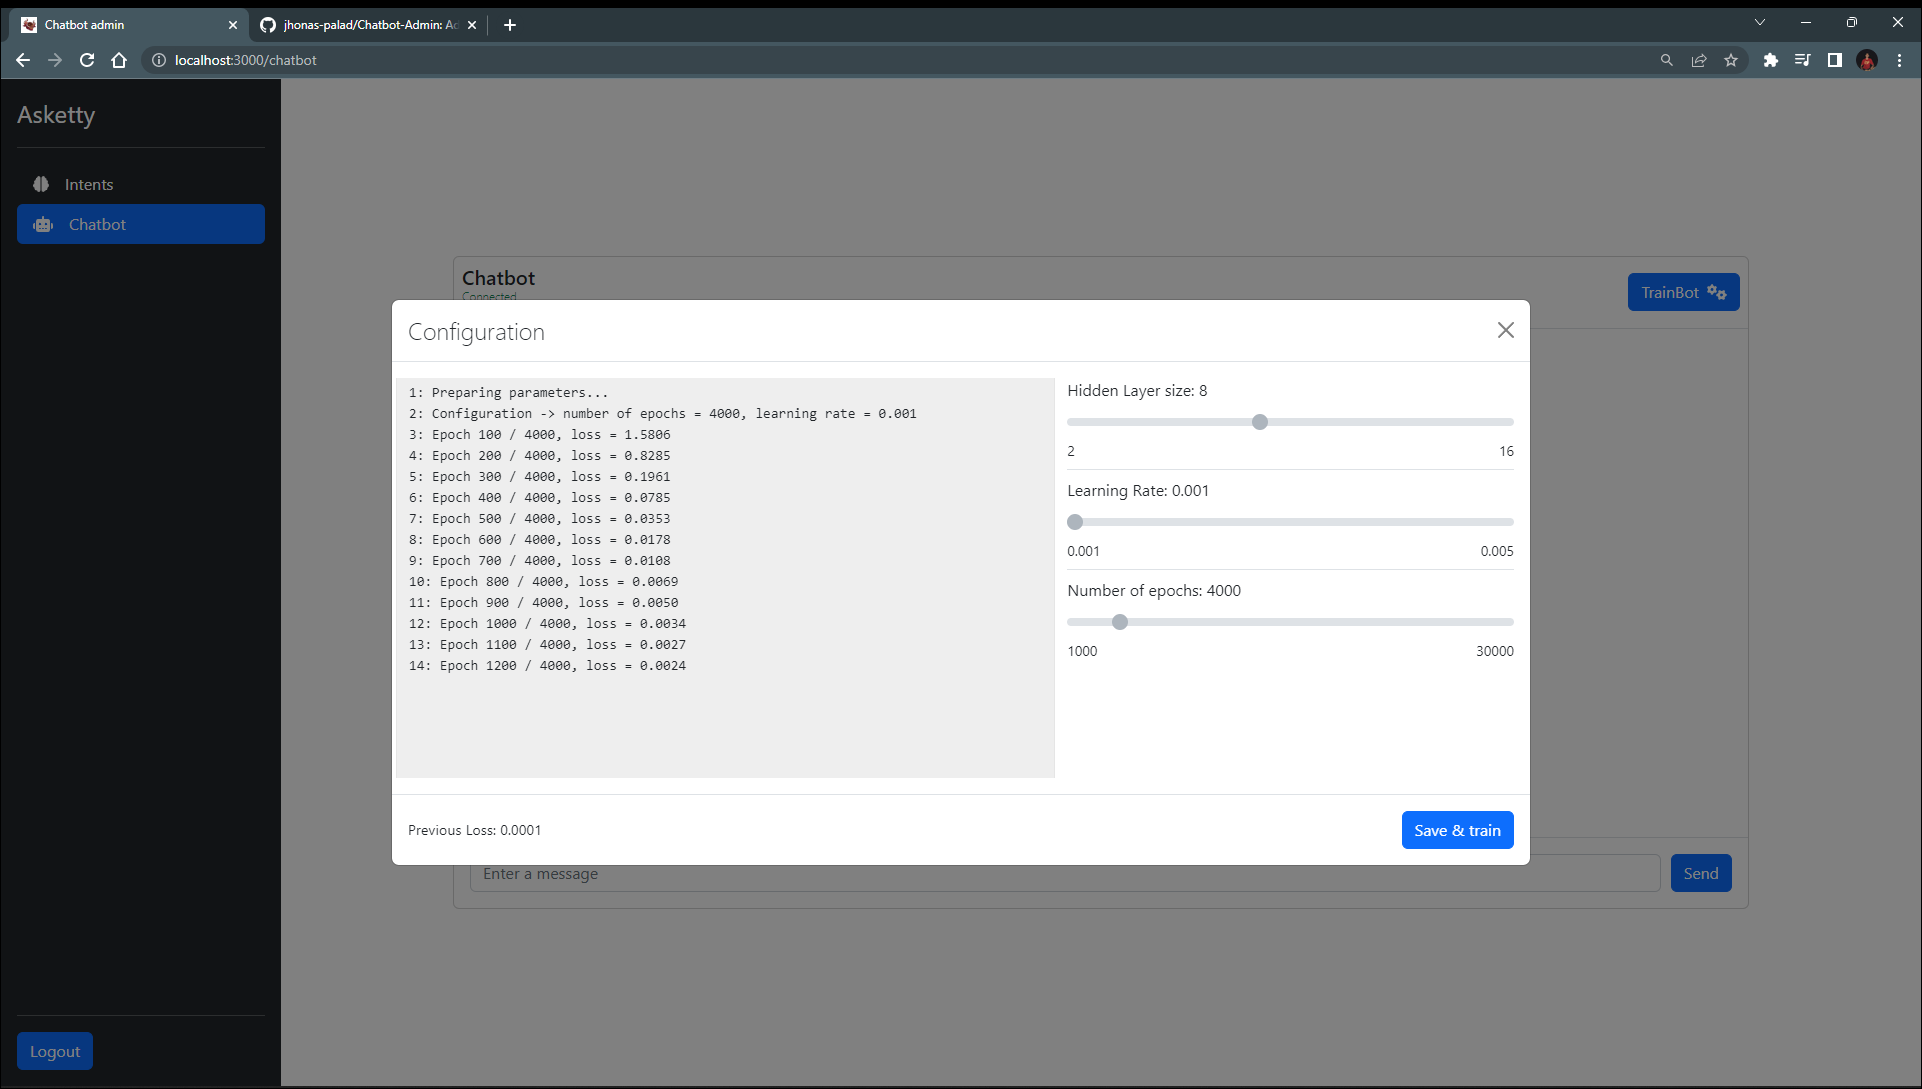
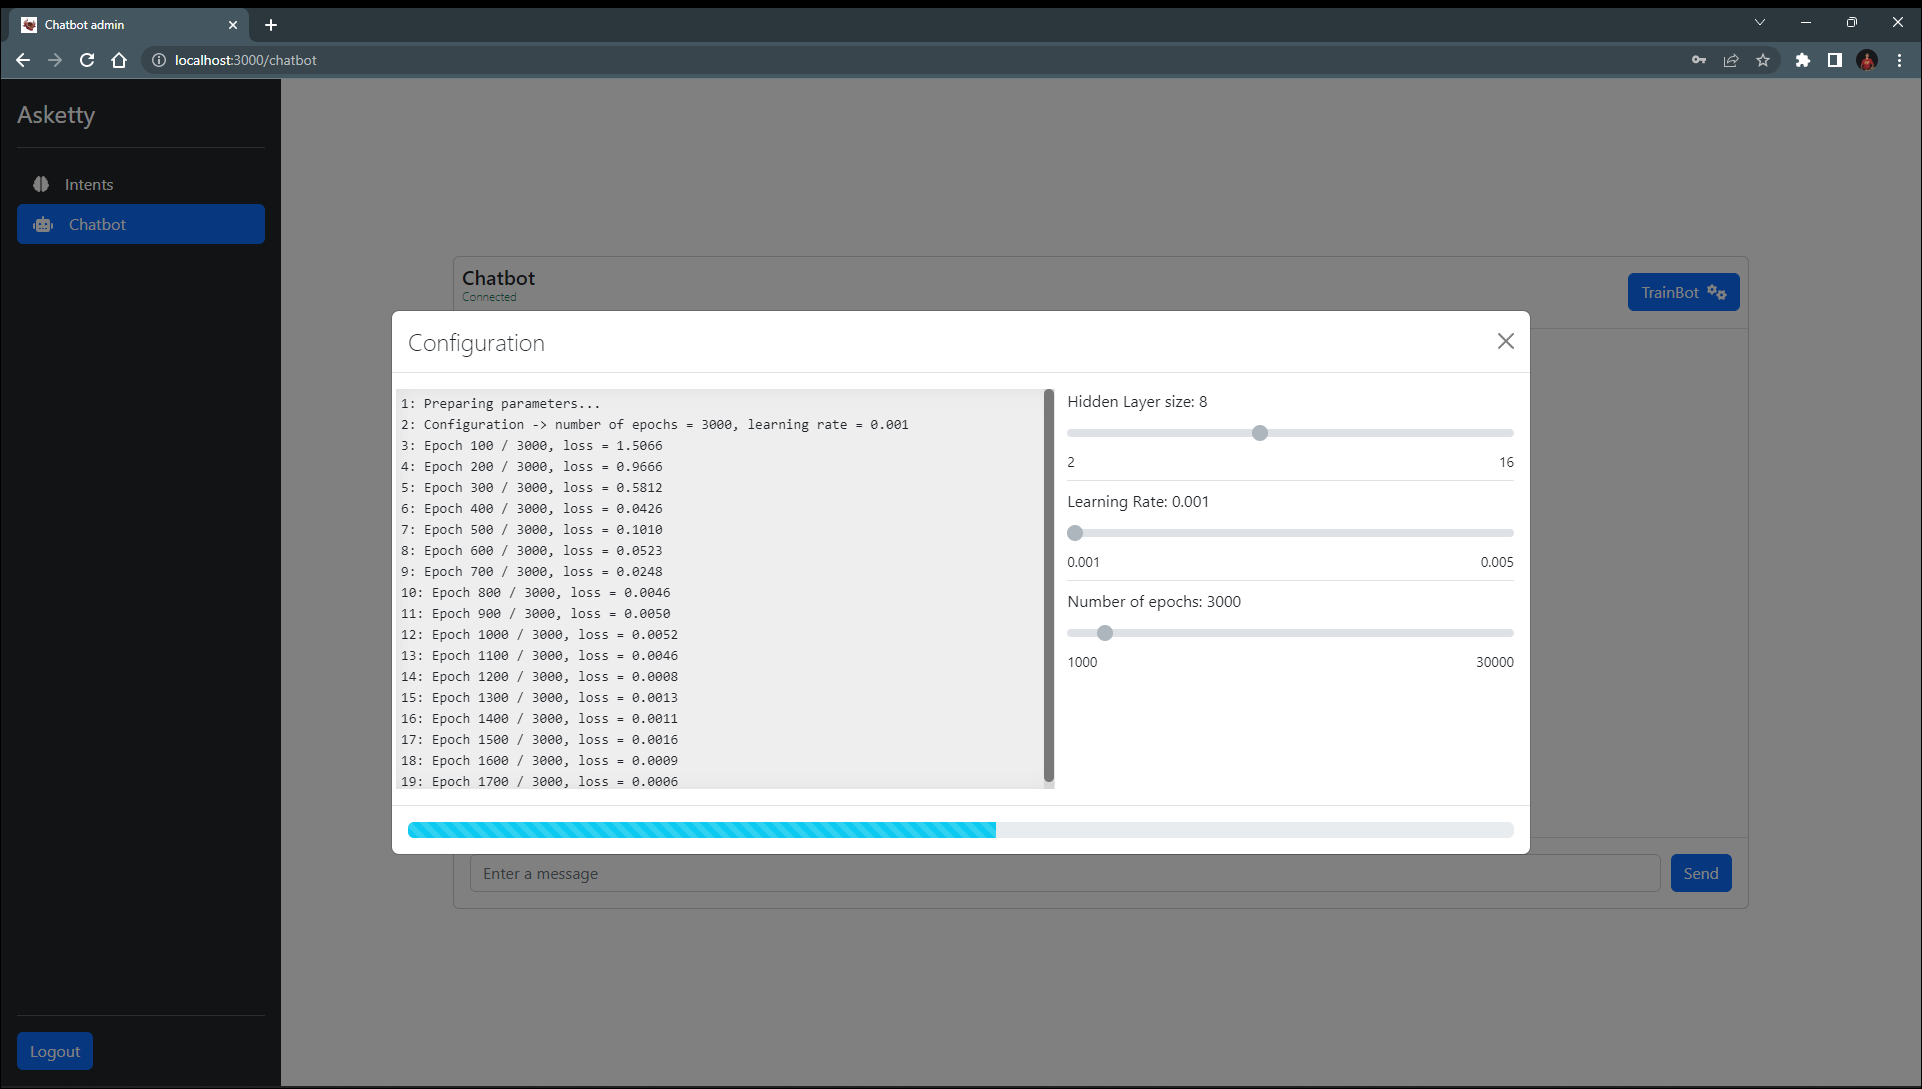
training progress added

diff --git a/src/components/TrainBotModal.jsx b/src/components/TrainBotModal.jsx
@@ -1,14 +1,15 @@
 import { useState, useEffect, useRef } from 'react';
-import { Button } from 'react-bootstrap';
 
+import Button from 'react-bootstrap/Button';
 import Form from 'react-bootstrap/Form';
-import InputGroup from 'react-bootstrap/InputGroup';
+import ProgressBar from 'react-bootstrap/ProgressBar';
+import Spinner from 'react-bootstrap/Spinner';
 import Modal from 'react-bootstrap/Modal';
 import '../css/trainbotmodal.css';
 
 
 
-const TrainBotModal = ({modelConfig, updateModelConfig, show, onHide}) => {
+const TrainBotModal = ({modelConfig, updateModelConfig, show, setShow}) => {
     const {
         num_epochs, 
         number_of_epochs_min,
@@ -48,7 +49,10 @@ const TrainBotModal = ({modelConfig, updateModelConfig, show, onHide}) => {
     const [hiddenLayerSizeDisabled, setHiddenLayerSizeDisabled] = useState(false);
     
     const [changesMade, setChangesMade] = useState(false);
-
+    const [isTrainingProgress, setIsTrainingProgress] = useState(false);
+    const [trainingPercent, setTrainingPercent] = useState(0);
+    const [trainingLog, setTrainingLog] = useState("Training Log");
+    const [isConnecting, setIsConnecting] = useState(false);
     useEffect(() => {
         if(learningRate.value !== learning_rate 
             || numEpochs.value !== num_epochs || hiddenLayerSize.value !== hidden_layer_size) {
@@ -71,7 +75,14 @@ const TrainBotModal = ({modelConfig, updateModelConfig, show, onHide}) => {
             setNumEpochsDisabled(state);
             setHiddenLayerSizeDisabled(state);
         }
-        setChangesMade(false);
+        const setInitalChanges = () => {
+            setIsConnecting(true);
+            setChangesMade(false);
+            setTrainingLog("Connecting...");
+            setLogMessages([]);
+        }
+
+        setInitalChanges();
         const ws = new WebSocket('ws://127.0.0.1:8000/chatbot/train');
         const dataConf = JSON.stringify({
             learning_rate: learningRate.value,
@@ -81,7 +92,9 @@ const TrainBotModal = ({modelConfig, updateModelConfig, show, onHide}) => {
         const msgList = [];
         ws.onopen = (e) => {
             disableToggleHelper(true);
+            
             ws.send(dataConf);
+            setIsTrainingProgress(true);
         }
         ws.onmessage = (event) => {
             const data = JSON.parse(event.data);
@@ -90,37 +103,52 @@ const TrainBotModal = ({modelConfig, updateModelConfig, show, onHide}) => {
                 msgList.push(data.msg);
                 setLogMessages([...msgList]);
             }
+            if(data?.percent_complete){
+                setTrainingPercent(data.percent_complete);
+            }
             if (data?.num_epochs) {
                 updateModelConfig({...modelConfig, ...data});
             }
         }
         ws.onclose = (e) => {
             disableToggleHelper(false);
+            setIsTrainingProgress(false);
+            setIsConnecting(false);
+            setTrainingPercent(0);
+        }
+        ws.onerror = (e) => {
+            setTrainingLog("Failed to connect, Try again");
         }
     }
+
+    const handleClose = () => !isTrainingProgress && setShow(false);
 
     return (
         <Modal
             show={show}
             size="xl"
             centered
-            onHide={onHide}
+            onHide={handleClose}
+            backdrop="static"
+            keyboard={false}
         >
             <Modal.Header closeButton>
                 <span style={{fontSize: "1.5rem"}} className="display-4">Configuration</span>
             </Modal.Header>
             <Modal.Body>
                 <div className='row'>
-                    <div style={{height:"400px"}} className="col-7 log-area pr-0 dflex-center position-relative">
+                    <div className="col-7 log-area p-0  dflex-center position-relative">
+                        
                         {
                             logMessages.length > 0 ? (
-                                <pre style={{height:"100%"}} className="scrollarea position-inherit w-100 align-self-start mt-1">
+                                <pre style={{height:"400px", background: "#eeeeee"}} className="scrollarea position-inherit w-100 align-self-start m-0 p-1">
                                     {logMessages.map((value, index) => `${index + 1}: ${value} \n`)}
                                 </pre>
                             ) : (
-                                <p>Console Log</p>
+                                <p>{trainingLog}</p>
                             )
                         }
+                        
                         
                         
                     </div>
@@ -169,27 +197,55 @@ const TrainBotModal = ({modelConfig, updateModelConfig, show, onHide}) => {
                         </div>
                     </div>
                 </div>
+                
             </Modal.Body>
             <Modal.Footer className="justify-content-between">
-                <div>
-                    <p style={{fontSize: "0.9rem"}} className="mb-0 mt-0 ">Previous Loss: {loss.toFixed(4)}</p>
-                </div>
-                <div className='d-flex gap-1'>
-                    {
-                        changesMade && <Button 
-                                onClick={handleResetConfig}
-                                variant="secondary">
-                                Reset config
+                {
+                    isTrainingProgress ? (<ProgressBar
+                        className='w-100'
+                        striped
+                        variant='info'
+                        now={trainingPercent}
+                        animated
+                    /> ) : (
+                        <>
+                            <div>
+                                <p style={{fontSize: "0.9rem"}} className="mb-0 mt-0 ">Previous Loss: {loss.toFixed(4)}</p>
+                            </div>
+                            <div className='d-flex gap-1'>
+                            {
+                                changesMade && <Button 
+                                        onClick={handleResetConfig}
+                                        variant="secondary">
+                                        Reset config
+                                    </Button>
+                            }
+                            
+                            <Button
+                                onClick={handleSaveTrain}
+                            >
+                                {
+                                    isConnecting ? (
+                                        <>
+                                            <Spinner
+                                            as="span"
+                                            size='sm'
+                                            animation='border'
+                                            style={{marginRight:"10px"}}
+                                            />
+                                            Connecting...
+                                        </>
+                                    ) : (
+                                        <span>Save & train</span>
+                                    )
+                                }
+                                
                             </Button>
-                    }
-                    
-                    <Button
-                        onClick={handleSaveTrain}
-                    >
-                        Save & train
-                    </Button>
-                    
-                </div>
+                        
+                            </div>
+                        </>
+                    )
+                }
             </Modal.Footer>
         </Modal>
     )

diff --git a/src/components/Chatbot.jsx b/src/components/Chatbot.jsx
@@ -1,7 +1,6 @@
 import { useState, useEffect } from 'react'
 import useAxiosPrivate from '../hooks/useAxiosPrivate';
 import MessageBox  from './MessageBox';
-import { isFloat } from '../utils/validators';
 
 import Spinner from 'react-bootstrap/Spinner';
 import Button from 'react-bootstrap/Button';
@@ -63,11 +62,6 @@ export const Chatbot = () => {
         const getModelConfig = async () => {
             try{
                 const {data} = await axiosPrivate(MODEL_CONFIG_URL);
-                // for(const key in data){
-                //     const current = data[key];
-                //     const parseMethod = isFloat(current) ? parseFloat : parseInt;
-                //     data[key] = parseMethod(current);
-                // }
                 console.log(data);
                 setModelConfig(data);
             }
@@ -150,30 +144,6 @@ export const Chatbot = () => {
             setWs(connectWS());
         }
     }
-    // const handleTrainBot = async () =>{
-
-    //     const reconnect = () => {
-    //         ws.close();
-    //         setWs(connectWS());
-    //     }
-    //     setIsLoading(true);
-    //     try{
-    //         await axiosPrivate(TRAINBOT_URL, {
-    //             method: 'POST'
-    //         });
-    //         setAlertMsg({heading: 'Yey', body: 'Chatbot successfully trained'});
-    //         setShowAlert(true);
-    //     }
-    //     catch(err){
-            
-    //         setAlertMsg({heading: 'Aww', body:'Something went wrong, try again'});
-    //         setShowAlert(true);
-    //     }
-    //     finally{
-    //         setIsLoading(false);
-    //         reconnect();
-    //     }
-    // }
 
     return (
         <section className="d-flex flex-column justify-content-center align-items-center">
@@ -185,46 +155,29 @@ export const Chatbot = () => {
                 onSend={onSend}
                 status={status}
             >
-                {
-                    isLoading ? (
-                        <Spinner animation="border" variant="primary" />
-                    ) : (
-                        <>
-                        {
-                            showModal ? 
-                                <TrainBotModal
-                                    show={showModal}
-                                    onHide={setShowModal}
-                                    modelConfig={modelConfig}
-                                    updateModelConfig={updateModelConfig}
-                                /> : (null)
-                        }
-                            <Toast className="position-absolute" style={{left:'50%', transform:'translate(-50%)', top:'5px'}} delay={3000} autohide show={showAlert} position="top-end" onClose={() => setShowAlert(false)}>
-                                <Toast.Header>
-                                    <strong className="me-auto">{alertMsg.heading}</strong>
-                                </Toast.Header>
-                                <Toast.Body>
-                                    {alertMsg.body}
-                                </Toast.Body>
-                            </Toast>
-                            <div>
-                                <Button 
-                                    
-                                    type="button" 
-                                    onClick={()=> setShowModal(true)}>
-                                        <span style={{marginRight:'8px'}}>
-                                            TrainBot
-                                        </span>
-                                        <span>
-                                            <FontAwesomeIcon icon={faGears}/>
+            {
+                showModal ? 
+                    <TrainBotModal
+                        show={showModal}
+                        setShow={setShowModal}
+                        modelConfig={modelConfig}
+                        updateModelConfig={updateModelConfig}
+                    /> : (null)
+            }
+                <div>
+                    <Button 
+                        
+                        type="button" 
+                        onClick={()=> setShowModal(true)}>
+                            <span style={{marginRight:'8px'}}>
+                                TrainBot
+                            </span>
+                            <span>
+                                <FontAwesomeIcon icon={faGears}/>
 
-                                        </span>
-                                </Button>
-                            </div>
-                            
-                        </>
-                    )
-                }
+                            </span>
+                    </Button>
+                </div>
             </MessageBox>
         </section>
 

diff --git a/src/css/trainbotmodal.css b/src/css/trainbotmodal.css
@@ -1,5 +1,13 @@
 .log-area{
-    background: #eeeeee;
+    
     border-right: 1px solid #e5e5e5;
     border-left: 1px solid #e5e5e5;
+}
+.log-area > pre {
+    width: 300px;
+    height: 100px;
+    background-color: #FFFFFF;
+    position: relative;
+    box-shadow: inset 0px 5px 30px -25px #A5A5A5, 
+    inset 0px -5px 30px -25px #A5A5A5;
 }

diff --git a/README.md b/README.md
@@ -5,11 +5,6 @@ This web application can be used for manipulating intents that serves as trainin
 
 **Implemented using React JS**
 
-TODOS:
-
-- Add progress bar during the model training
-- Implement discard changes
-
 ### Screenshots
 <img src="./md_assets/1.png" alt="drawing" style="width:750px;"/>
 <img src="./md_assets/2.png" alt="drawing" style="width:750px;"/>
@@ -26,7 +21,7 @@ Chatbot model training parameters can be configured.
 
 <img src="./md_assets/9.png" alt="drawing" style="width:750px;"/>
 
-A log is displayed on every epochs.
+A training log is displayed on every epochs.
 <img src="./md_assets/10.png" alt="drawing" style="width:750px;"/>
 
 The configuration can be reset from previous training configuration
